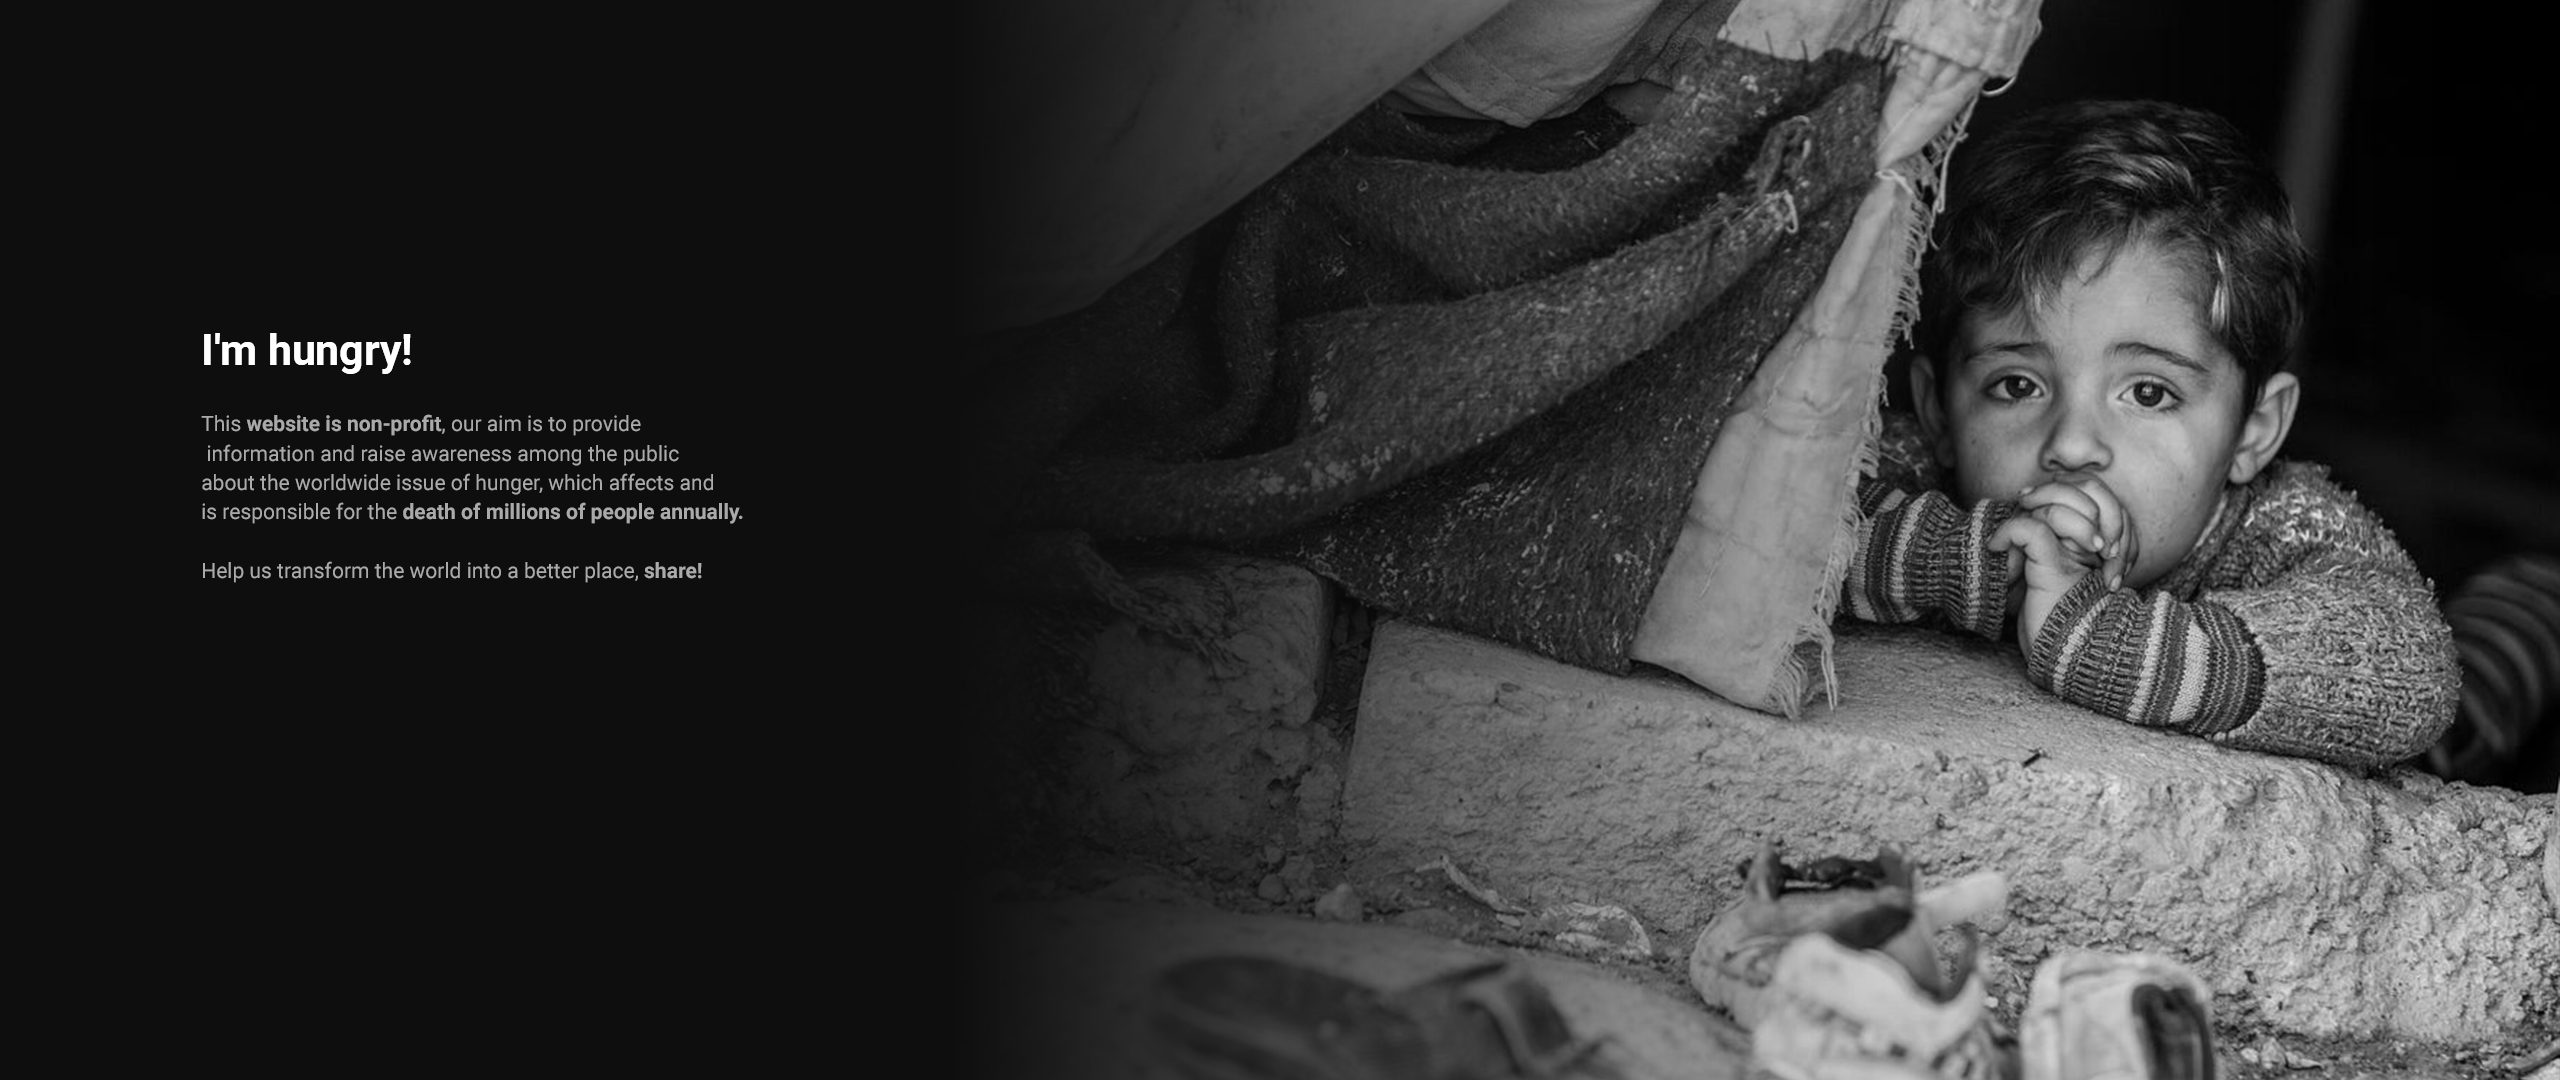
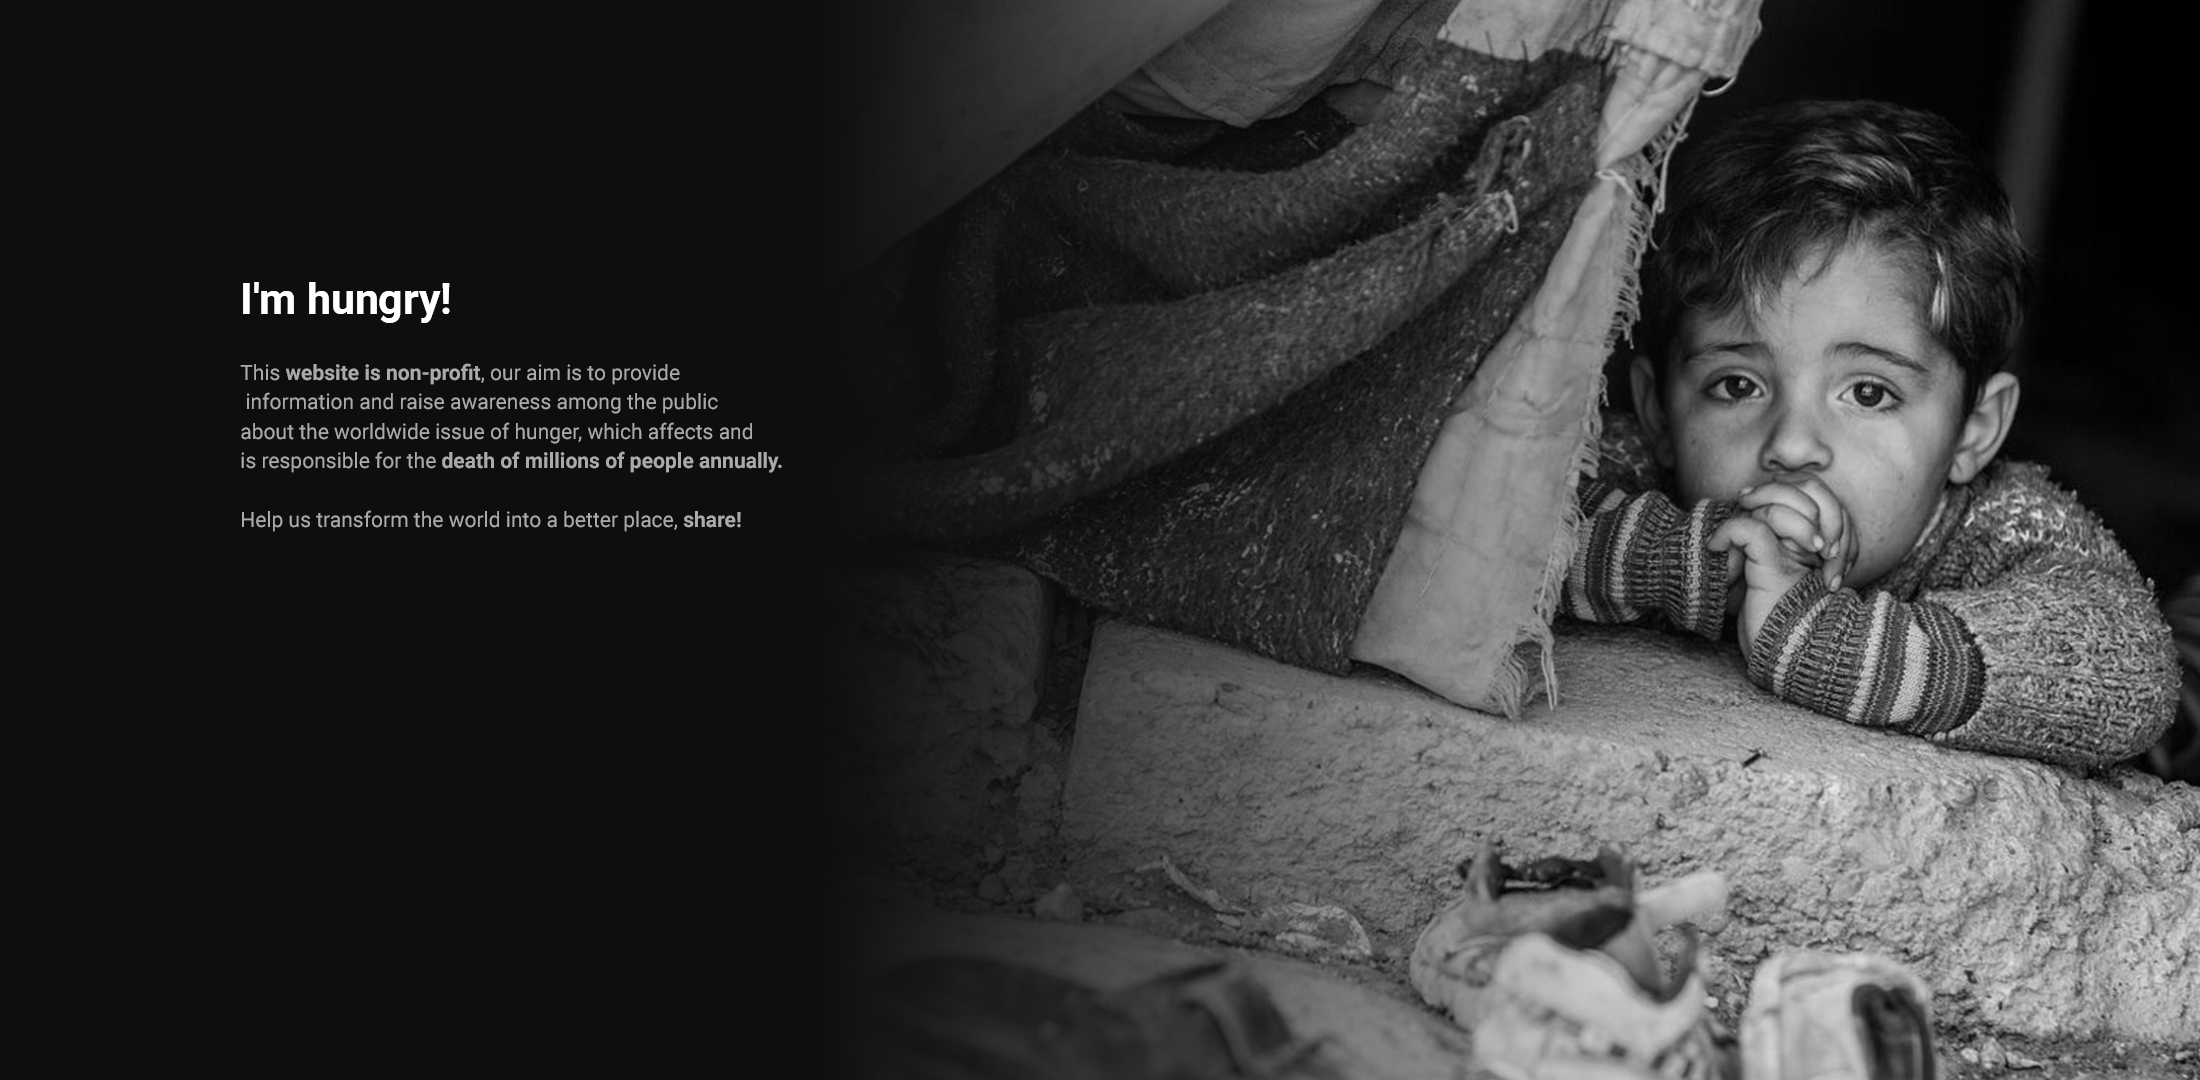
wallpaper of all scales and translated, added

diff --git a/src/pages/home/media.css b/src/pages/home/media.css
@@ -1,16 +1,33 @@
-@media (max-width: 768px){
+@media (max-width: 1440px){
 	.main__home {
-		background-image: url(/src/images/bg/home-wallpaper-mobile.png);
+		background-image: url(/src/images/bg/home-wallpaper-1440-pt-br.png);
 	}
+
 	.main__home--en {
-		background-image: url(/src/images/bg/home-wallpaper-mobile-en-eua.png);
+
+		background-image: url(/src/images/bg/home-wallpaper-1440-en-eua.png);
+
 	}
 }
 
 @media (max-width: 1024px){
-	
+	.main__home {
+		background-image: url(/src/images/bg/home-wallpaper-1024-pt-br.png);
+	}
+
+	.main__home--en {
+		background-image: url(/src/images/bg/home-wallpaper-1024-en-eua.png);
+	}
 }
 
-@media (max-width: 1440px){
-	
+
+
+@media (max-width: 768px){
+	.main__home {
+		background-image: url(/src/images/bg/home-wallpaper-768-pt-br.png);
+	}
+
+	.main__home--en {
+		background-image: url(/src/images/bg/home-wallpaper-768-en-eua.png);
+	}
 }

diff --git a/src/pages/home/en-eua.html b/src/pages/home/en-eua.html
@@ -4,7 +4,7 @@
 	<meta charset="UTF-8">
 	<meta http-equiv="X-UA-Compatible" content="IE=edge">
 	<meta name="viewport" content="width=device-width, initial-scale=1.0">
-	<title>Tenho fome!</title>
+	<title>I'm hungry!</title>
 	<link href="style.css" rel="stylesheet">
 	<link href="media.css" rel="stylesheet">
 	<link href="/src/pages/base/base.css" rel="stylesheet">

diff --git a/src/pages/home/style.css b/src/pages/home/style.css
@@ -10,7 +10,7 @@
 	width: 100% !important;
 	height: 100vh;
 
-	background-image: url(/src/images/bg/home-wallpaper.png);
+	background-image: url(/src/images/bg/home-wallpaper-pt-br.png);
 	background-repeat: no-repeat;
 	background-size: 100%;
 }
